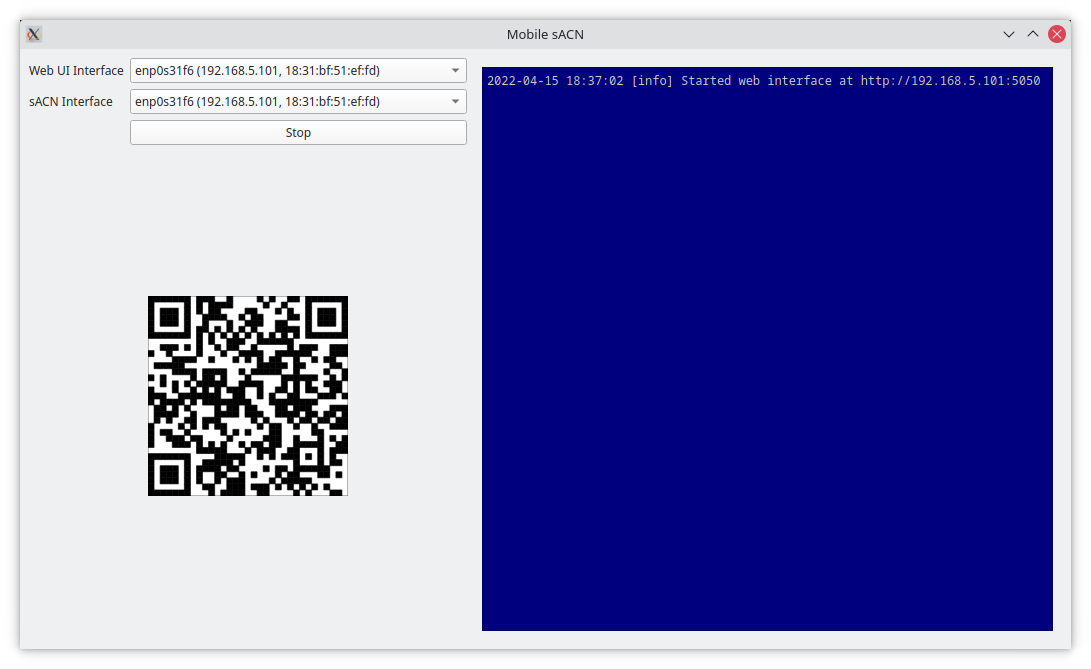
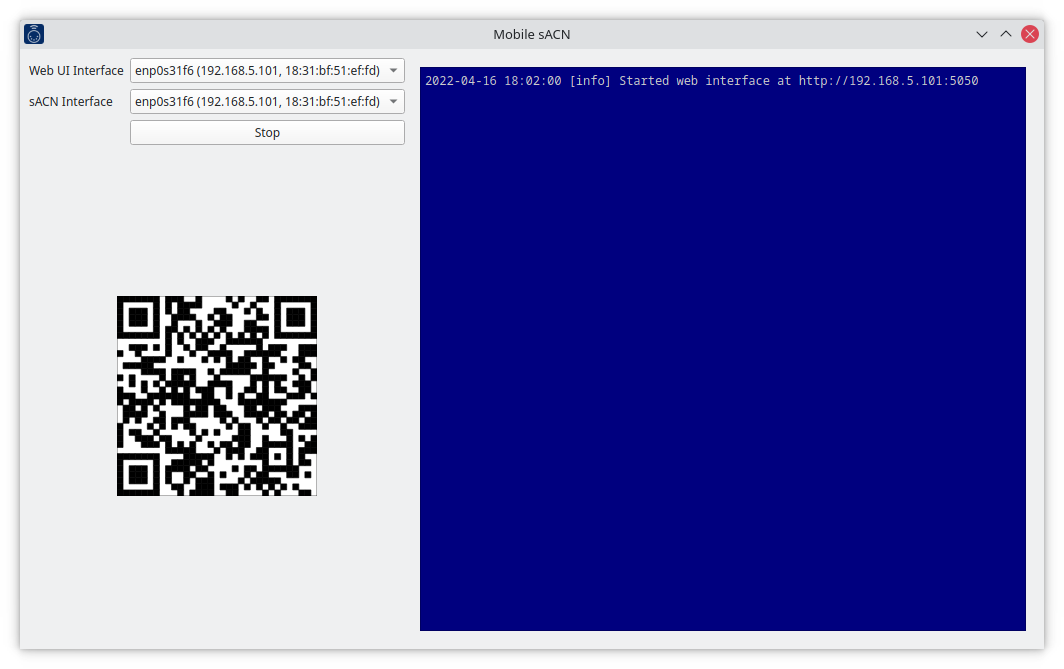
Update readme and screenshots.

diff --git a/README.md b/README.md
@@ -1,8 +1,6 @@
 Mobile sACN
 ===========
 
-![Screenshot demonstrating channel check mode](doc/media/chancheck.png)
-
 Mobile sACN allows remote troubleshooting of sACN signals. Your mobile device
 connects to a program on your computer that handles functions as the sACN
 transceiver. This reduces wireless network bandwidth and configuration
@@ -14,7 +12,7 @@ development builds [here](https://github.com/danielskeenan/mobile_sacn/releases/
 Requirements
 ------------
 
-- A computer with network access.
+- A computer with network access (Windows 10+, macOS 10.15+).
 - Mobile device with a web browser.
 
 Usage
@@ -34,3 +32,9 @@ Usage
 Issues
 ------
 Please report any issues via the [GitHub Issue Tracker](https://github.com/danielskeenan/mobile_sacn/issues).
+
+Screenshots
+-----------
+![Screenshot demonstrating channel check mode](doc/media/chancheck.png)
+
+![Screenshot demonstrating direct control mode](doc/media/control.png)
